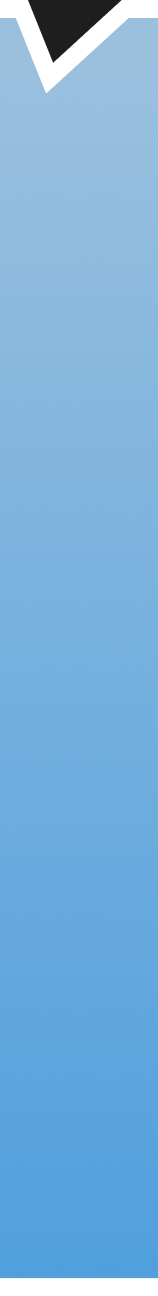
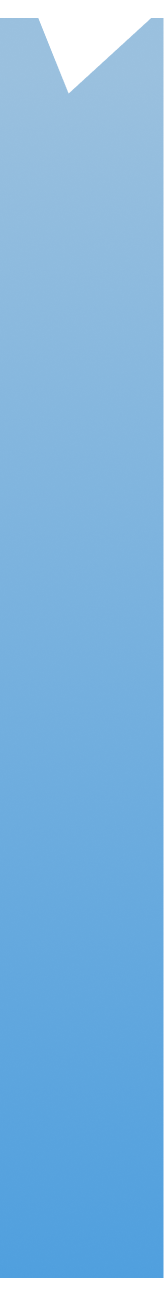
FEAT/#220: Background Panel Component

Changed region(s): [[0.1013, 0.0, 0.8861, 0.0926], [0.9873, 0.0, 1.0, 0.9877]]

diff --git a/frontend/src/components/layout/BackgroundComponent.vue b/frontend/src/components/layout/BackgroundComponent.vue
@@ -1,0 +1,96 @@
+<script setup lang="ts">
+</script>
+
+<template>
+    <div class="background">
+        <div class="background__image"></div>
+        <div class="background__container">
+            <div class="background__sheet">
+                <div class="background__sheet-tile background__sheet-tile--left">
+                    <img class="background__sheet-image" src="@/assets/images/backgrounds/backgroundcontainer_left.png">
+                </div>
+                <div class="background__sheet-tile background__sheet-tile--stretch">
+                    <img class="background__sheet-image" src="@/assets/images/backgrounds/backgroundcontainer_stretch.png">
+                </div>
+                <div class="background__sheet-tile background__sheet-tile--center">
+                    <img class="background__sheet-image" src="@/assets/images/backgrounds/backgroundcontainer_center.png">
+                </div>
+                <div class="background__sheet-tile background__sheet-tile--stretch">
+                    <img class="background__sheet-image" src="@/assets/images/backgrounds/backgroundcontainer_stretch.png">
+                </div>
+                <div class="background__sheet-tile background__sheet-tile--right">
+                    <img class="background__sheet-image" src="@/assets/images/backgrounds/backgroundcontainer_right.png">
+                </div>
+                
+            </div>
+        </div>
+    </div>
+</template>
+
+<style scoped lang="css">
+.background {
+    width: 100dvw;
+    height: 100dvh;
+    position: relative;
+}
+
+.background__image {
+    width: 100%;
+    height: 100%;
+    position: absolute;
+    z-index: 1;
+    background-color: var(--colorSecondary);
+}
+
+.background__container {
+    width: 90dvw;
+    max-width: 1440px;
+    height: calc(100% - 10dvw);
+    max-height: 770px;
+    position: relative;
+    z-index: 2;
+    /* position element centered */ 
+    top: 50%;
+    left: 50%;
+    transform: translate(-50%, -50%);
+    /*background-color: var(--colorPrimary);*/
+}
+
+.background__sheet {
+    width: 100%;
+    height: 100%;
+    position: absolute;
+    display: grid;
+    grid-template-columns: auto 1fr auto 1fr auto;
+    grid-template-rows: 100%;
+}
+
+.background__sheet-tile {
+    height: 100%;
+
+}
+
+.background__sheet-tile--left,
+.background__sheet-tile--center,
+.background__sheet-tile--right {
+    width: auto;
+}
+
+.background__sheet-tile--stretch {
+    width:100%;
+}
+
+.background__sheet-tile--left .background__sheet-image,
+.background__sheet-tile--center .background__sheet-image,
+.background__sheet-tile--right .background__sheet-image {
+    width: auto;
+    height: 100%;
+}
+
+.background__sheet-tile--stretch .background__sheet-image {
+    width:100%;
+    height: 100%;
+}
+
+
+</style>
